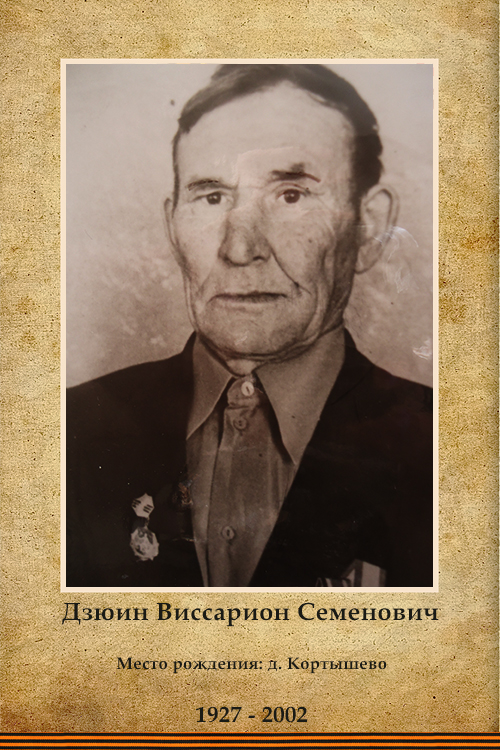
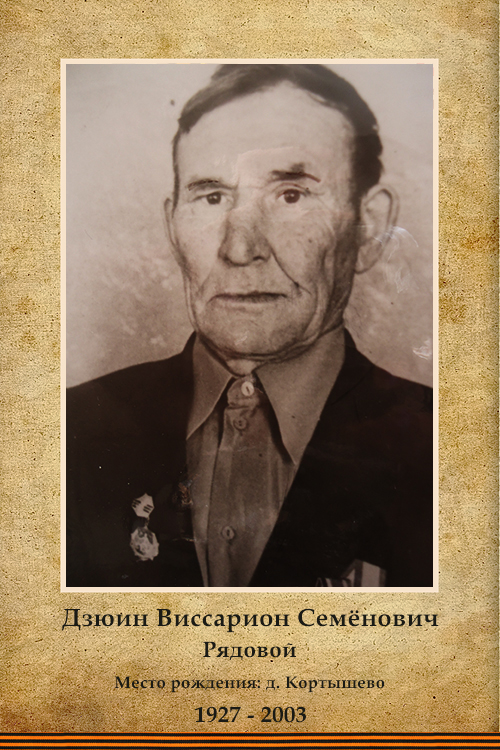
N071024

Changed region(s): [[0.12, 0.7973, 0.87, 0.9813]]

diff --git a/veterany.html b/veterany.html
@@ -158,6 +158,7 @@ $(window).on('beforeunload', function() {
 	<p id="Ko" style="cursor: pointer;"title="Кожиль">&emsp;"Кожиль"</p>
 	<p id="Kol" style="cursor: pointer;"title="Колевай">&emsp;"Колевай"</p>
 	<p id="Kor" style="cursor: pointer;"title="Коротай">&emsp;"Коротай"</p>
+	<p id="Kort" style="cursor: pointer;"title="Кортышево">&emsp;"Кортышево"</p>
 	<p id="Korsh" style="cursor: pointer;"title="Коршуново">&emsp;"Коршуново"</p>
 	<p id="Kot" style="cursor: pointer;"title="Котнырево">&emsp;"Котнырево"</p>
 	<p id="Koch" style="cursor: pointer;"title="Кочишево">&emsp;"Кочишево"</p>
@@ -711,6 +712,18 @@ $('.item').css({
         'display': 'block'
     });	
 $('.details__title').html('Коротай');	
+});
+</script>
+
+<script>
+$('#Kort').click(function() {
+$('.item').css({
+        'display': 'none'
+    });
+    $('#Kort1').css({
+        'display': 'block'
+    });
+$('.details__title').html('Кортышево');
 });
 </script>
 
@@ -2149,6 +2162,23 @@ $(document).ready(function(){
                 <a href="https://cloud.mail.ru/public/bgsy/RFtzPWkKT" target="_blank" title="Анисимов Аркадий Матвеевич"><img id="btn16" src="images/knopkaIstoria2.svg" width="100" height="29" border="0" style="display: none;"></a>	
 			</div>
 		</div>
+
+<script>
+$(document).ready(function(){
+    $('#btn978').on("click", function(){
+    $('#btn978').toggle();
+	$('#btn979').toggle();
+    });
+});
+</script>
+		<div class="item">
+			<div>
+				<a data-lightbox="lightbox" href="img/big/0490.jpg">
+					<img class="front" src="img/small/0490.jpg" title="Анисимов Павел Михайлович"></a>
+				<a href="https://cloud.mail.ru/public/6dDj/76idZht4N" target="_blank" title="Анисимов Павел Михайлович"><img id="btn978" class="btnhov" src="images/knopkaIstoria.svg" width="100" height="29" border="0"></a>
+                <a href="https://cloud.mail.ru/public/6dDj/76idZht4N" target="_blank" title="Анисимов Павел Михайлович"><img id="btn979" src="images/knopkaIstoria2.svg" width="100" height="29" border="0" style="display: none;"></a>	
+			</div>
+		</div>
 		
 <script>
 $(document).ready(function(){
@@ -2394,6 +2424,23 @@ $(document).ready(function(){
                 <a href="https://cloud.mail.ru/public/4Kcw/EkkG5iyzb" target="_blank" title="Баженов Николай Борисович"><img id="btn601" src="images/knopkaIstoria2.svg" width="100" height="29" border="0" style="display: none;"></a>	
 			</div>
 		</div>		
+
+<script>
+$(document).ready(function(){
+    $('#btn980').on("click", function(){
+    $('#btn980').toggle();
+	$('#btn981').toggle();
+    });
+});
+</script>
+		<div class="item">
+			<div>
+				<a data-lightbox="lightbox" href="img/big/0491.jpg">
+					<img class="front" src="img/small/0491.jpg" title="Баженов Иван Павлович"></a>
+				<a href="https://cloud.mail.ru/public/Spr1/UHaeLZbot" target="_blank" title="Баженов Иван Павлович"><img id="btn980" class="btnhov" src="images/knopkaIstoria.svg" width="100" height="29" border="0"></a>
+                <a href="https://cloud.mail.ru/public/Spr1/UHaeLZbot" target="_blank" title="Баженов Иван Павлович"><img id="btn981" src="images/knopkaIstoria2.svg" width="100" height="29" border="0" style="display: none;"></a>	
+			</div>
+		</div>
 
 <script>
 $(document).ready(function(){
@@ -2760,6 +2807,23 @@ $(document).ready(function(){
 				</a>
 				<a href="https://cloud.mail.ru/public/7MTA/tzVtFZDTu" target="_blank" title="Богданов Михаил Михайлович"><img id="btn53" class="btnhov" src="images/knopkaIstoria.svg" width="100" height="29" border="0"></a>
                 <a href="https://cloud.mail.ru/public/7MTA/tzVtFZDTu" target="_blank" title="Богданов Михаил Михайлович"><img id="btn54" src="images/knopkaIstoria2.svg" width="100" height="29" border="0" style="display: none;"></a>	
+			</div>
+		</div>
+
+<script>
+$(document).ready(function(){
+    $('#btn982').on("click", function(){
+    $('#btn982').toggle();
+	$('#btn983').toggle();
+    });
+});
+</script>
+		<div class="item">
+			<div>
+				<a data-lightbox="lightbox" href="img/big/0492.jpg">
+					    <img class="front" src="img/small/0492.jpg" title="Богданов Николай Максимович"></a>
+				<a href="https://cloud.mail.ru/public/Pumq/PiWMQSasd" target="_blank" title="Богданов Николай Максимович"><img id="btn982" class="btnhov" src="images/knopkaIstoria.svg" width="100" height="29" border="0"></a>
+                <a href="https://cloud.mail.ru/public/Pumq/PiWMQSasd" target="_blank" title="Богданов Николай Максимович"><img id="btn983" src="images/knopkaIstoria2.svg" width="100" height="29" border="0" style="display: none;"></a>	
 			</div>
 		</div>
 
@@ -4143,6 +4207,40 @@ $(document).ready(function(){
 
 <script>
 $(document).ready(function(){
+    $('#btn984').on("click", function(){
+    $('#btn984').toggle();
+	$('#btn985').toggle();
+    });
+});
+</script>
+		<div class="item">
+			<div>
+				<a data-lightbox="lightbox" href="img/big/0493.jpg">
+					    <img class="front" src="img/small/0493.jpg" title="Головков Степан Яковлевич"></a>
+				<a href="https://cloud.mail.ru/public/2gib/38VhmJUpU" target="_blank" title="Головков Степан Яковлевич"><img id="btn984" class="btnhov" src="images/knopkaIstoria.svg" width="100" height="29" border="0"></a>
+                <a href="https://cloud.mail.ru/public/2gib/38VhmJUpU" target="_blank" title="Головков Степан Яковлевич"><img id="btn985" src="images/knopkaIstoria2.svg" width="100" height="29" border="0" style="display: none;"></a>	
+			</div>
+		</div>
+
+<script>
+$(document).ready(function(){
+    $('#btn986').on("click", function(){
+    $('#btn986').toggle();
+	$('#btn987').toggle();
+    });
+});
+</script>
+		<div class="item">
+			<div>
+				<a data-lightbox="lightbox" href="img/big/0494.jpg">
+					    <img class="front" src="img/small/0494.jpg" title="Горбушин Алексей Александрович"></a>
+				<a href="https://cloud.mail.ru/public/6HAf/wUSK2jdVJ" target="_blank" title="Горбушин Алексей Александрович"><img id="btn986" class="btnhov" src="images/knopkaIstoria.svg" width="100" height="29" border="0"></a>
+                <a href="https://cloud.mail.ru/public/6HAf/wUSK2jdVJ" target="_blank" title="Горбушин Алексей Александрович"><img id="btn987" src="images/knopkaIstoria2.svg" width="100" height="29" border="0" style="display: none;"></a>	
+			</div>
+		</div>
+
+<script>
+$(document).ready(function(){
     $('#btn138').on("click", function(){
         $('#btn138').toggle(); 
 		$('#btn139').toggle();
@@ -4179,6 +4277,23 @@ $(document).ready(function(){
 		
 <script>
 $(document).ready(function(){
+    $('#btn988').on("click", function(){
+    $('#btn988').toggle();
+	$('#btn989').toggle();
+    });
+});
+</script>
+		<div class="item">
+			<div>
+				<a data-lightbox="lightbox" href="img/big/0495.jpg">
+					    <img class="front" src="img/small/0495.jpg" title="Горбушин Владимир Александрович"></a>
+				<a href="https://cloud.mail.ru/public/dy94/hzyUHQHuw" target="_blank" title="Горбушин Владимир Александрович"><img id="btn988" class="btnhov" src="images/knopkaIstoria.svg" width="100" height="29" border="0"></a>
+                <a href="https://cloud.mail.ru/public/dy94/hzyUHQHuw" target="_blank" title="Горбушин Владимир Александрович"><img id="btn989" src="images/knopkaIstoria2.svg" width="100" height="29" border="0" style="display: none;"></a>	
+			</div>
+		</div>		
+		
+<script>
+$(document).ready(function(){
     $('#btn698').on("click", function(){
         $('#btn698').toggle();
 		$('#btn699').toggle();
@@ -4193,6 +4308,23 @@ $(document).ready(function(){
                 <a href="https://cloud.mail.ru/public/CNGf/L6BpsFwcx" target="_blank" title="Горбушин Георгий Захарович"><img id="btn699" src="images/knopkaIstoria2.svg" width="100" height="29" border="0" style="display: none;"></a>	
 			</div>
 		</div>		
+
+<script>
+$(document).ready(function(){
+    $('#btn990').on("click", function(){
+    $('#btn990').toggle();
+	$('#btn991').toggle();
+    });
+});
+</script>
+		<div class="item">
+			<div>
+				<a data-lightbox="lightbox" href="img/big/0496.jpg">
+					    <img class="front" src="img/small/0496.jpg" title="Горбушин Кузьма Михайлович"></a>
+				<a href="https://cloud.mail.ru/public/FNzh/DzTEywjJv" target="_blank" title="Горбушин Кузьма Михайлович"><img id="btn990" class="btnhov" src="images/knopkaIstoria.svg" width="100" height="29" border="0"></a>
+                <a href="https://cloud.mail.ru/public/FNzh/DzTEywjJv" target="_blank" title="Горбушин Кузьма Михайлович"><img id="btn991" src="images/knopkaIstoria2.svg" width="100" height="29" border="0" style="display: none;"></a>	
+			</div>
+		</div>
 
 <script>
 $(document).ready(function(){
@@ -4264,6 +4396,23 @@ $(document).ready(function(){
 
 <script>
 $(document).ready(function(){
+    $('#btn992').on("click", function(){
+    $('#btn992').toggle();
+	$('#btn993').toggle();
+    });
+});
+</script>
+		<div class="item">
+			<div>
+				<a data-lightbox="lightbox" href="img/big/0497.jpg">
+					    <img class="front" src="img/small/0497.jpg" title="Городилов Михаил Емельянович"></a>
+				<a href="https://cloud.mail.ru/public/rN91/7Wfs4Yevi" target="_blank" title="Городилов Михаил Емельянович"><img id="btn992" class="btnhov" src="images/knopkaIstoria.svg" width="100" height="29" border="0"></a>
+                <a href="https://cloud.mail.ru/public/rN91/7Wfs4Yevi" target="_blank" title="Городилов Михаил Емельянович"><img id="btn993" src="images/knopkaIstoria2.svg" width="100" height="29" border="0" style="display: none;"></a>	
+			</div>
+		</div>
+
+<script>
+$(document).ready(function(){
     $('#btn706').on("click", function(){
         $('#btn706').toggle();
 		$('#btn707').toggle();
@@ -4299,6 +4448,40 @@ $(document).ready(function(){
 
 <script>
 $(document).ready(function(){
+    $('#btn994').on("click", function(){
+    $('#btn994').toggle();
+	$('#btn995').toggle();
+    });
+});
+</script>
+		<div class="item">
+			<div>
+				<a data-lightbox="lightbox" href="img/big/0498.jpg">
+					    <img class="front" src="img/small/0498.jpg" title="Данилов Ефрем Дмитриевич (Димитриевич)"></a>
+				<a href="https://cloud.mail.ru/public/Kdoc/Tn4vQkosn" target="_blank" title="Данилов Ефрем Дмитриевич (Димитриевич)"><img id="btn994" class="btnhov" src="images/knopkaIstoria.svg" width="100" height="29" border="0"></a>
+                <a href="https://cloud.mail.ru/public/Kdoc/Tn4vQkosn" target="_blank" title="Данилов Ефрем Дмитриевич (Димитриевич)"><img id="btn995" src="images/knopkaIstoria2.svg" width="100" height="29" border="0" style="display: none;"></a>	
+			</div>
+		</div>
+		
+<script>
+$(document).ready(function(){
+    $('#btn996').on("click", function(){
+    $('#btn996').toggle();
+	$('#btn997').toggle();
+    });
+});
+</script>
+		<div class="item">
+			<div>
+				<a data-lightbox="lightbox" href="img/big/0499.jpg">
+					    <img class="front" src="img/small/0499.jpg" title="Дедов Афанасий Сергеевич"></a>
+				<a href="https://cloud.mail.ru/public/FjUX/Z2xxXs2cw" target="_blank" title="Дедов Афанасий Сергеевич"><img id="btn996" class="btnhov" src="images/knopkaIstoria.svg" width="100" height="29" border="0"></a>
+                <a href="https://cloud.mail.ru/public/FjUX/Z2xxXs2cw" target="_blank" title="Дедов Афанасий Сергеевич"><img id="btn997" src="images/knopkaIstoria2.svg" width="100" height="29" border="0" style="display: none;"></a>	
+			</div>
+		</div>		
+
+<script>
+$(document).ready(function(){
     $('#btn708').on("click", function(){
         $('#btn708').toggle();
 		$('#btn709').toggle();
@@ -4308,9 +4491,9 @@ $(document).ready(function(){
 		<div id="Okt13" class="item">
 			<div>
 				<a data-lightbox="lightbox" href="img/big/0356.jpg">
-					<img class="front" src="img/small/0356.jpg" title="Дементьев Павел Семенович"> 				</a>
-				<a href="https://cloud.mail.ru/public/jBeE/N5pzZDai7" target="_blank" title="Дементьев Павел Семенович"><img id="btn708" class="btnhov" src="images/knopkaIstoria.svg" width="100" height="29" border="0"></a>
-                <a href="https://cloud.mail.ru/public/jBeE/N5pzZDai7" target="_blank" title="Дементьев Павел Семенович"><img id="btn709" src="images/knopkaIstoria2.svg" width="100" height="29" border="0" style="display: none;"></a>	
+					<img class="front" src="img/small/0356.jpg" title="Дементьев Павел Семёнович"> 				</a>
+				<a href="https://cloud.mail.ru/public/jBeE/N5pzZDai7" target="_blank" title="Дементьев Павел Семёнович"><img id="btn708" class="btnhov" src="images/knopkaIstoria.svg" width="100" height="29" border="0"></a>
+                <a href="https://cloud.mail.ru/public/jBeE/N5pzZDai7" target="_blank" title="Дементьев Павел Семёнович"><img id="btn709" src="images/knopkaIstoria2.svg" width="100" height="29" border="0" style="display: none;"></a>	
 			</div>
 		</div>
 
@@ -4334,6 +4517,23 @@ $(document).ready(function(){
 
 <script>
 $(document).ready(function(){
+    $('#btn998').on("click", function(){
+    $('#btn998').toggle();
+	$('#btn999').toggle();
+    });
+});
+</script>
+		<div class="item">
+			<div>
+				<a data-lightbox="lightbox" href="img/big/0500.jpg">
+					    <img class="front" src="img/small/0500.jpg" title="Дерунов Яков Евдокимович"></a>
+				<a href="https://cloud.mail.ru/public/tmNS/rzScjVxsF" target="_blank" title="Дерунов Яков Евдокимович"><img id="btn998" class="btnhov" src="images/knopkaIstoria.svg" width="100" height="29" border="0"></a>
+                <a href="https://cloud.mail.ru/public/tmNS/rzScjVxsF" target="_blank" title="Дерунов Яков Евдокимович"><img id="btn999" src="images/knopkaIstoria2.svg" width="100" height="29" border="0" style="display: none;"></a>	
+			</div>
+		</div>
+
+<script>
+$(document).ready(function(){
     $('#btn710').on("click", function(){
         $('#btn710').toggle();
 		$('#btn711').toggle();
@@ -4343,7 +4543,7 @@ $(document).ready(function(){
 		<div id="Ke1" class="item">
 			<div>
 				<a data-lightbox="lightbox" href="img/big/0357.jpg">
-					<img class="front" src="img/small/0357.jpg" title="Дзюин Алексей Васильевич"> 				</a>
+					<img class="front" src="img/small/0357.jpg" title="Дзюин Алексей Васильевич"></a>
 				<a href="https://cloud.mail.ru/public/kfit/qKuiHsrur" target="_blank" title="Дзюин Алексей Васильевич"><img id="btn710" class="btnhov" src="images/knopkaIstoria.svg" width="100" height="29" border="0"></a>
                 <a href="https://cloud.mail.ru/public/kfit/qKuiHsrur" target="_blank" title="Дзюин Алексей Васильевич"><img id="btn711" src="images/knopkaIstoria2.svg" width="100" height="29" border="0" style="display: none;"></a>	
 			</div>
@@ -4357,13 +4557,12 @@ $(document).ready(function(){
     });
 });
 </script>		
-				<div class="item">
+				<div id="Kort1" class="item">
 			<div>
 				<a data-lightbox="lightbox" href="img/big/067.jpg">
-					<img class="front" src="img/small/067.jpg" title="Дзюин Виссарион Семёнович"> 
-				</a>
-				<a data-lightbox="lightbox2" href="images/1000.jpg" title="Дзюин Виссарион Семёнович"><img id="btn152" class="btnhov" src="images/knopkaIstoria.svg" width="100" height="29" border="0"></a>
-                <a data-lightbox="lightbox2" href="images/1000.jpg" title="Дзюин Виссарион Семёнович"><img id="btn153" src="images/knopkaIstoria2.svg" width="100" height="29" border="0" style="display: none;"></a>	
+					<img class="front" src="img/small/067.jpg" title="Дзюин Виссарион Семёнович"></a>
+				<a href="https://cloud.mail.ru/public/BG9n/akneUZTwe" target="_blank" title="Дзюин Виссарион Семёнович"><img id="btn152" class="btnhov" src="images/knopkaIstoria.svg" width="100" height="29" border="0"></a>
+                <a href="https://cloud.mail.ru/public/BG9n/akneUZTwe" target="_blank" title="Дзюин Виссарион Семёнович"><img id="btn153" src="images/knopkaIstoria2.svg" width="100" height="29" border="0" style="display: none;"></a>	
 			</div>
 		</div>
 
